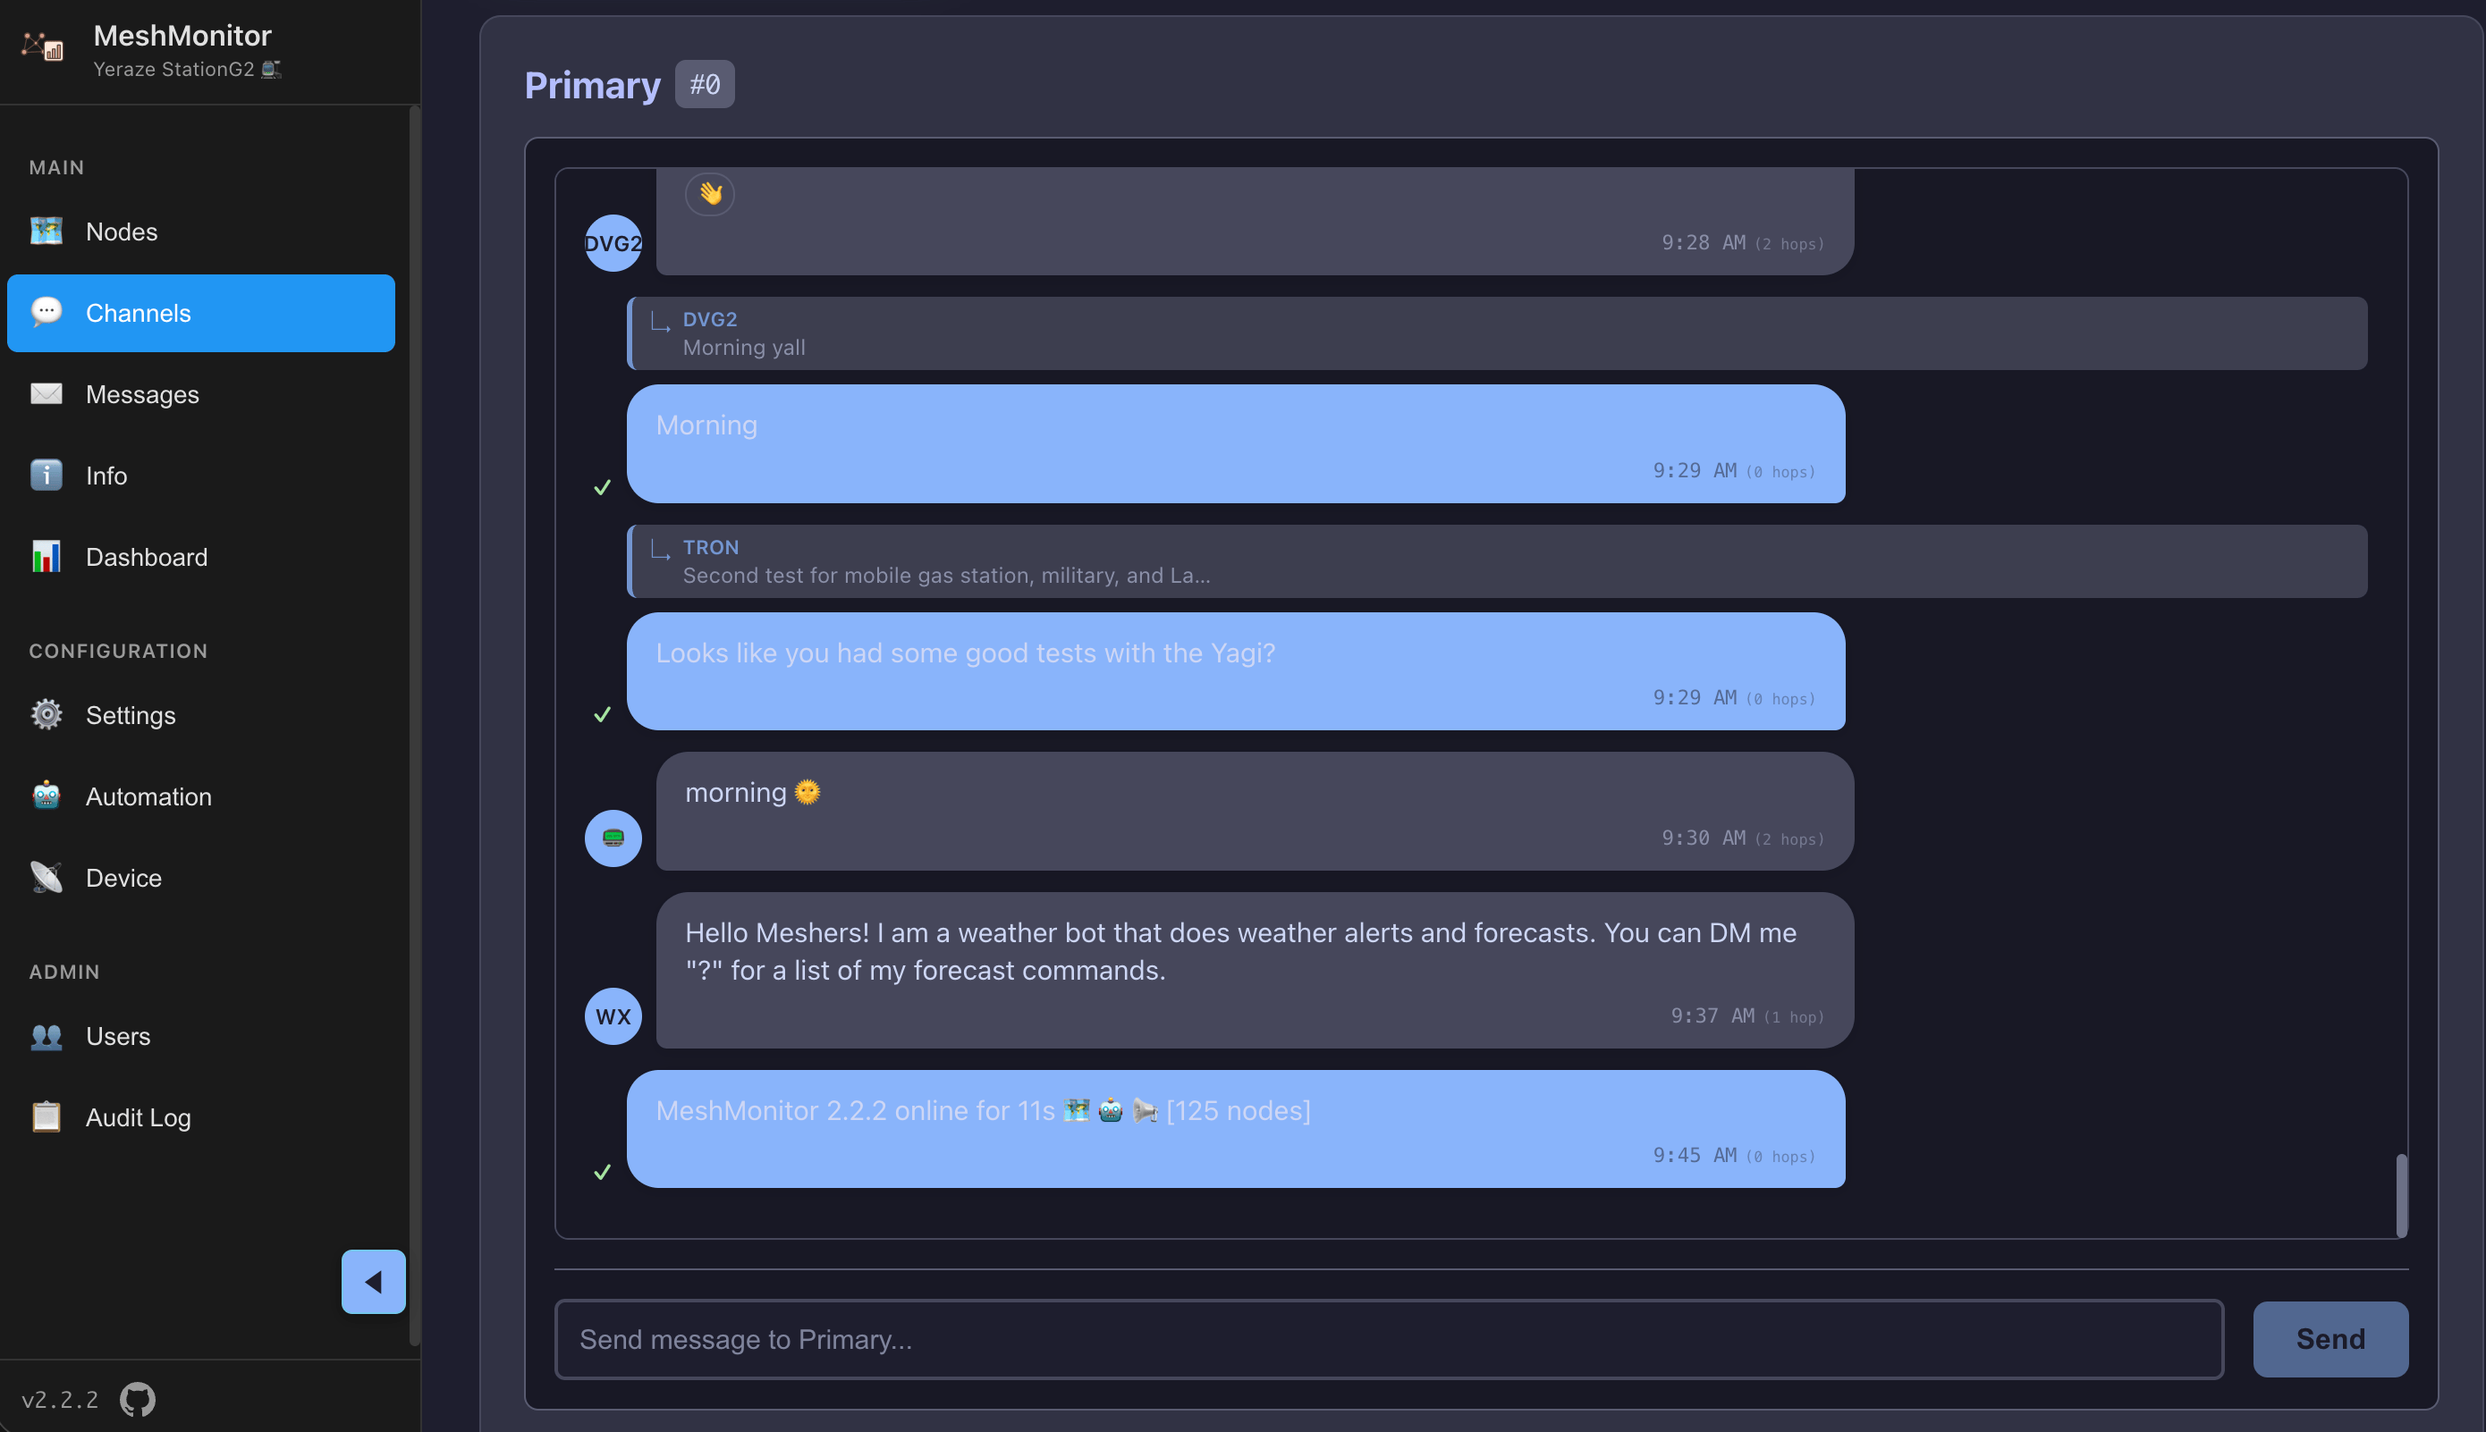
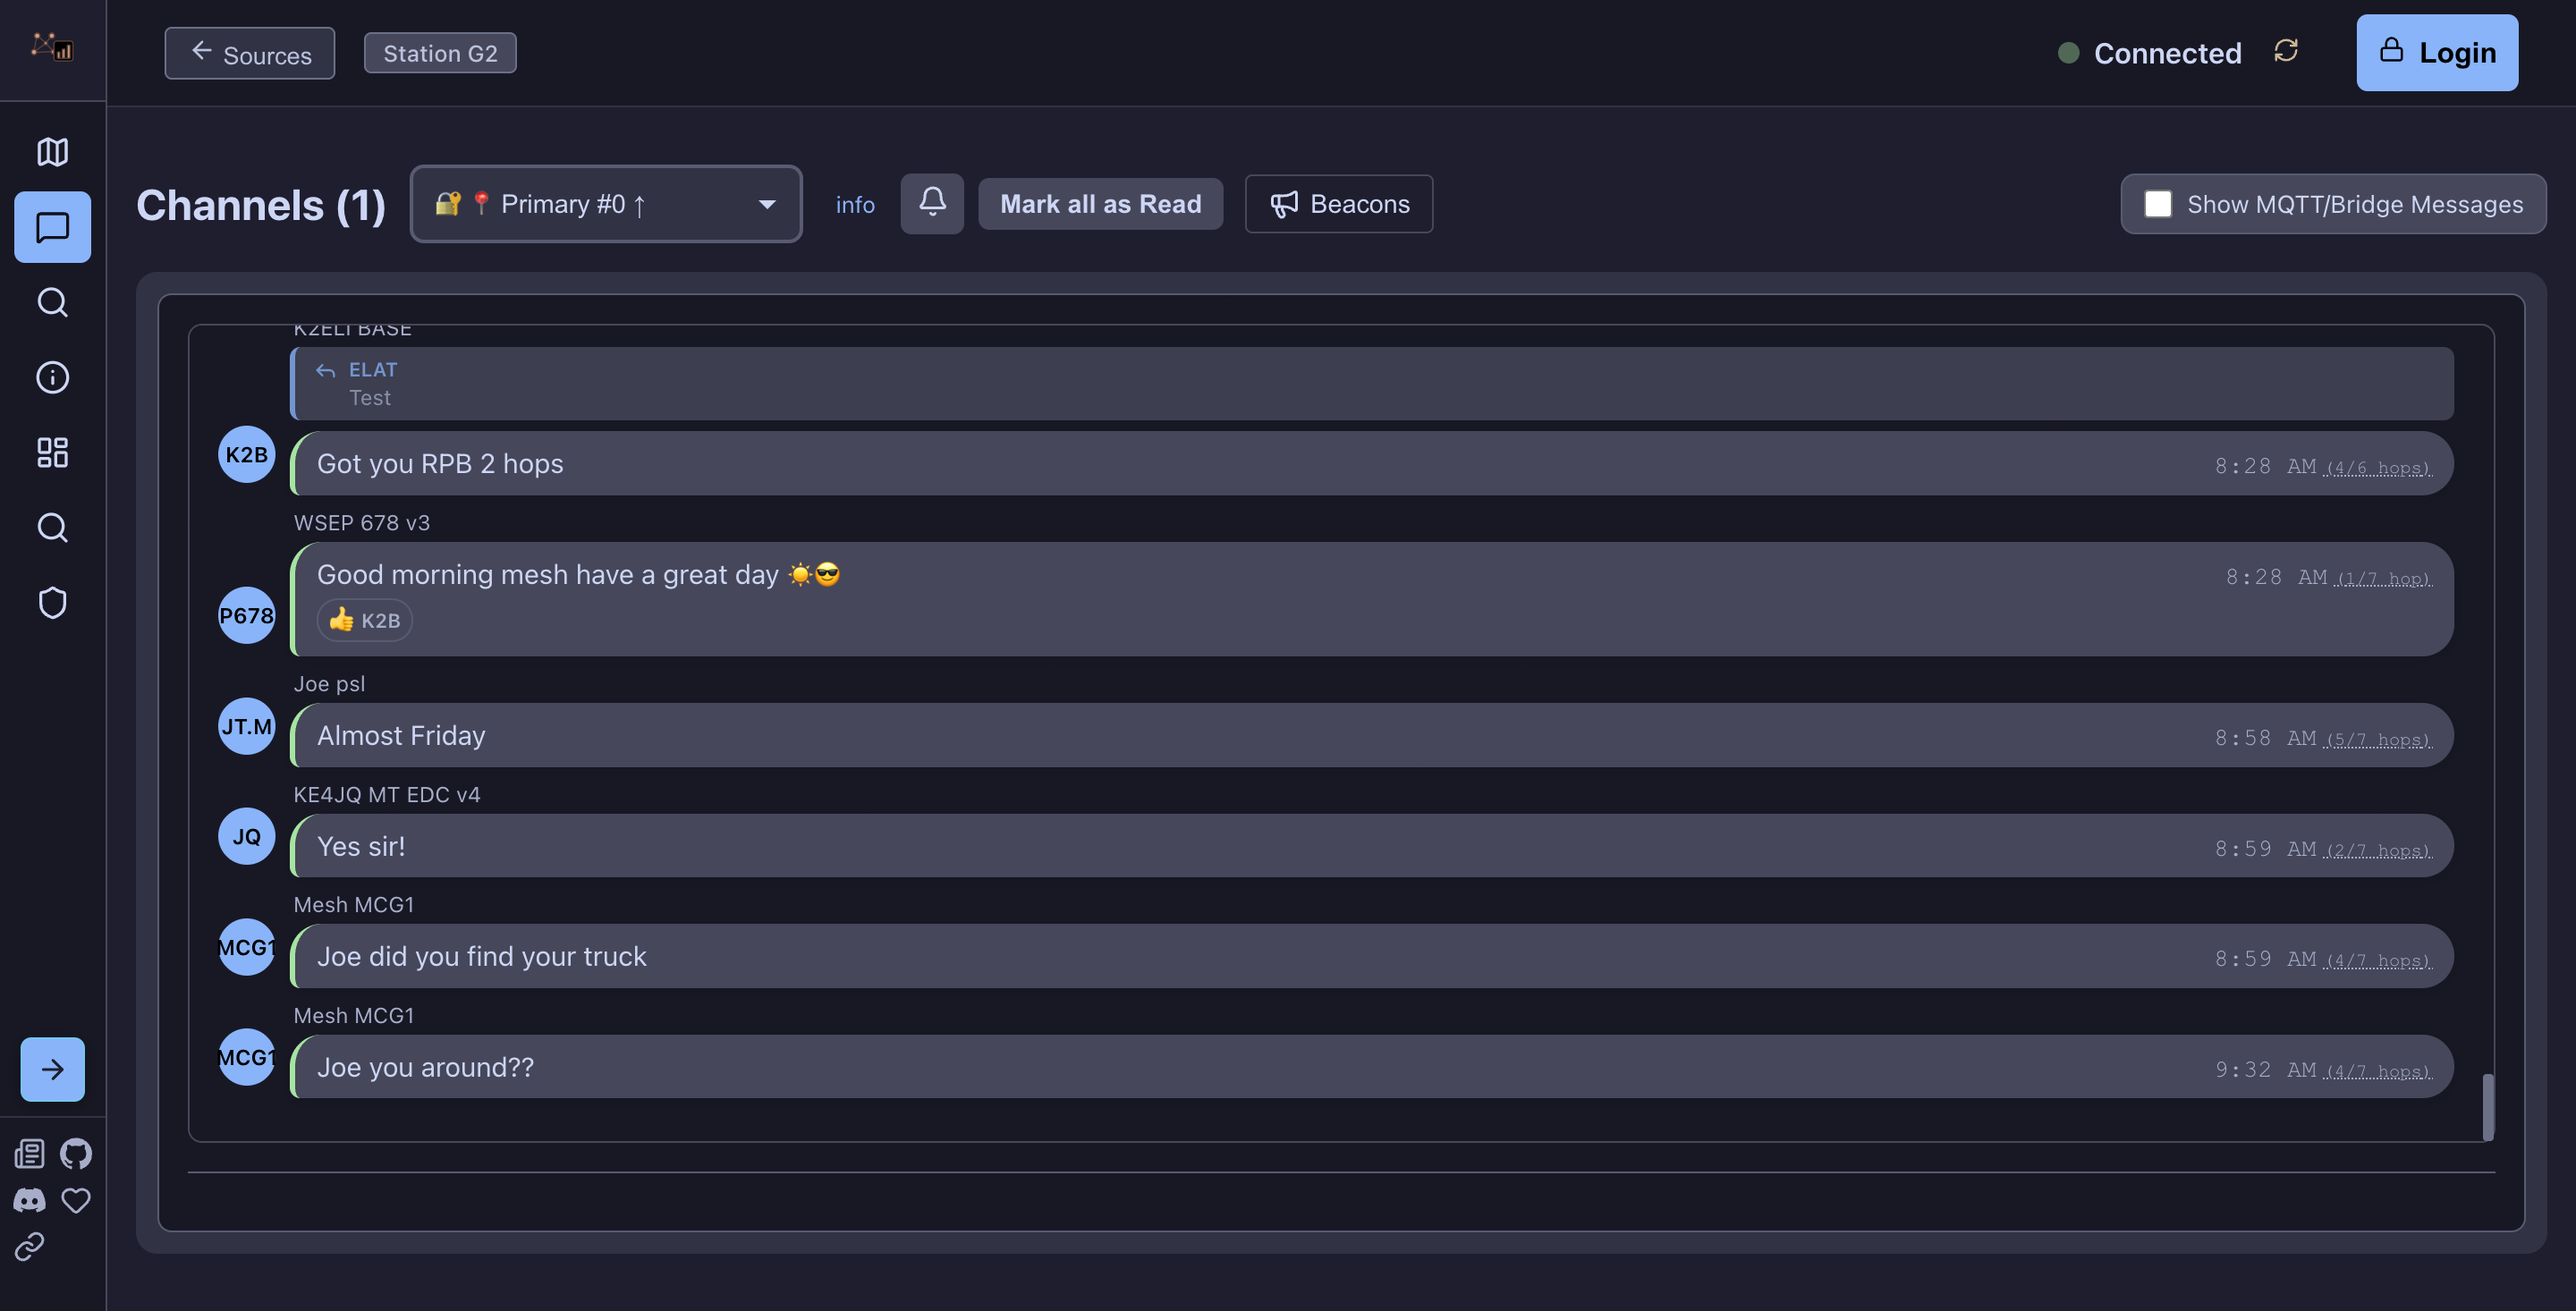
docs(readme): refresh screenshots from the live demo and add a Screenshots section (#6208)
Replace the v2.2.2 main/channels images with captures of meshmonitor.yeraze.com
on 4.17 and add source view, telemetry dashboard, unified telemetry and the
Solar Monitoring report, each with a short description and a docs link.

diff --git a/README.md b/README.md
@@ -8,9 +8,43 @@
 
 A comprehensive web application for monitoring off-grid mesh networks — Meshtastic, MeshCore, and MQTT — from a single dashboard. Built with React, TypeScript, and Node.js, featuring a beautiful Catppuccin Mocha dark theme and multi-database support (SQLite, PostgreSQL, MySQL).
 
-![MeshMonitor Interface](docs/images/main.png)
+![MeshMonitor unified map of every connected source](docs/images/main.png)
 
-![MeshMonitor Interface](docs/images/channels.png)
+*The unified map. Every source (Meshtastic radios, MeshCore companions, MQTT bridges and the built-in broker) is listed down the left with its connection state and how many nodes were active in the last two hours. Nodes from all of them share one map.*
+
+## Screenshots
+
+All screenshots are from the public demo at **[meshmonitor.yeraze.com](https://meshmonitor.yeraze.com/)**, viewed signed out.
+
+### Source view: nodes and map
+
+![Node list and map for a single Meshtastic source](docs/images/source-nodes.png)
+
+Open a source to see its own nodes. The list shows each node's role, SNR and RSSI, power, hop count and last-heard time, and you can filter, sort and export it. On the map, nearby nodes group into numbered clusters until you zoom in. See [Interactive Maps](https://meshmonitor.org/features/maps.html) and [Multi-Source](https://meshmonitor.org/features/multi-source.html).
+
+### Channels
+
+![Channel messages with replies, reactions and hop counts](docs/images/channels.png)
+
+Channel chat supports threaded replies, emoji reactions, and a hop count on every message (for example `4/6 hops`). A toggle shows or hides messages that arrived over MQTT or a bridge.
+
+### Telemetry dashboard
+
+![Per-source telemetry dashboard with node status and hop distribution](docs/images/dashboard.png)
+
+Each source has a drag-and-drop dashboard of widgets. In this shot, **Node Status** shows last-heard, signal and voltage for favorited nodes, and **Hop Distribution** shows how far away the nodes this radio hears are, from direct to 7 hops. See [Telemetry Widgets](https://meshmonitor.org/features/telemetry-widgets.html).
+
+### Unified telemetry
+
+![Telemetry graphs merged across Meshtastic and MeshCore sources](docs/images/telemetry.png)
+
+Favorited telemetry from all sources on one page: RSSI and noise floor from a MeshCore repeater sit beside packet counters from a Meshtastic node. Pick a window from 15 minutes to 7 days, or narrow it to one source.
+
+### Analysis & Reports
+
+![Solar Monitoring Analysis report with battery and solar production chart](docs/images/reports.png)
+
+Reports run across every source. **Solar Monitoring Analysis** (shown here) spots solar-powered nodes from their daily charge and discharge pattern and charts battery level against expected solar production. Other reports include NodeInfo Enrichment, ok_to_mqtt Violations, Mesh Issues, Coverage Report and Traceroute Explorer. See [Analysis & Reports](https://meshmonitor.org/features/analysis-reports.html) and [Solar Monitoring](https://meshmonitor.org/features/solar-monitoring.html).
 
 ## Documentation
 
